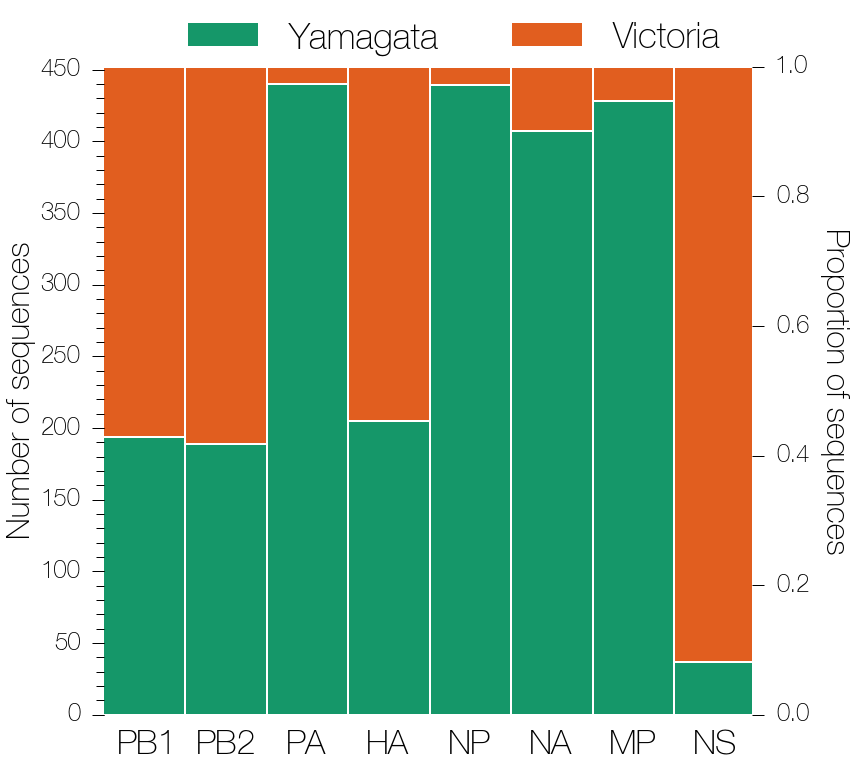
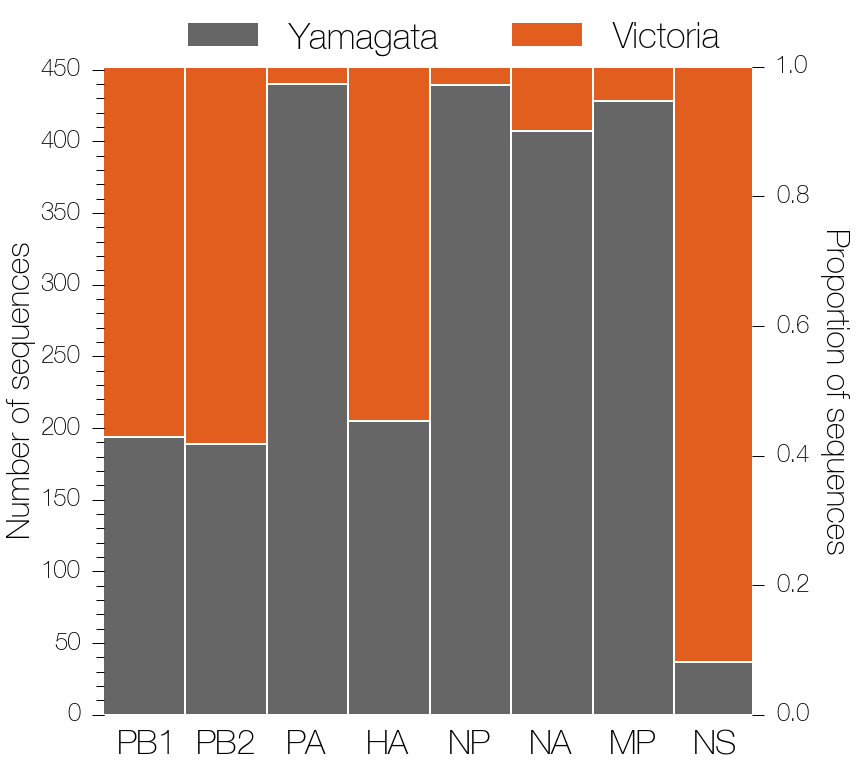
Lineage should now only refer to Vic/Yam.
Addressing #7.
Also adding alternative Vic/Yam colour scheme (orange/gray) to the
current one (orange/green). If everyone is happy with the new one I'll
update all 3 figures with the new one.

diff --git a/fluB.tex b/fluB.tex
@@ -200,8 +200,8 @@ The PB1, PB2 and HA segments maintain a common ancestor in $\sim$1983 up to the 
 \begin{figure}[h]
 	\centering		
 	\includegraphics[width=0.75\textwidth]{figures/InfB_tmrcaOT_lines.png}
-	\caption{\textbf{Oldest TMRCA of all surviving lineages over time.}
-PA, NP, NA, MP and NS segments of influenza B viruses show periodic losses of diversity, indicating lineage turn over.
+	\caption{\textbf{Oldest TMRCA of all surviving branches over time.}
+PA, NP, NA, MP and NS segments of influenza B viruses show periodic losses of diversity, indicating lineage turnover.
 PB1, PB2 and HA segments, on the other hand, maintain the diversity dating back to the initial split of Vic and Yam lineages.
 Each point is the TMRCA of all surviving lineages existing at each time slice through the tree and vertical lines indicating uncertainty are 95\% highest posterior densities (HPDs).}
 	\label{tmrcaOT}
@@ -263,7 +263,6 @@ Lineages that coassort in genomes are represented by 8 parallel lines, with line
 Inter-lineage reassortment events are indicated by lines entering a different genome.
 The angle of incoming lineages represents uncertainty in the timing of the event (mean date of the reassortant node and its parent node).
 Lineage extinction dates are not shown accurately.
-\tbc{Giving this a bit more vertical spread (increasing aspect ratio) would likely clarify things a bit.}}
 	\label{railroadPlot}
 \end{figure}
 
@@ -355,7 +354,7 @@ Evidence suggests that this is a result of prolonged lack of reassortment betwee
 We propose that this pattern of non-reassortment is due to the action of selection and not simply biased reassortment.
 Figures \ref{SPRdistances} and \ref{deltaTMRCA} show that despite all pairs of segments having the same reassortment frequency, suggesting there is no bias in segment packaging, PB1, PB2 and HA segments exhibit much lower reassortment `distances'.
 
-Reassortment `distances' represent the temporal separation of reassorting lineages and suggests that reassortments between PB1, PB2 and HA segments tend to combine lineages that have relatively recently been part of the same genome, i.e.\ that have shared a recent common virion.
+Reassortment `distances' represent the temporal separation of reassorting branches and suggests that reassortments between PB1, PB2 and HA segments tend to combine branches that have relatively recently been part of the same genome, i.e.\ that have shared a recent common virion.
 In addition, most strains with mixed-lineage PB1-PB2-HA complexes occured in the early years of the Vic--Yam split, when the two lineages were much more similar at the nucleotide and amino acid levels.
 The most recent influenza B viruses with B/Waikato/6/2005-like genome constellations possessed mixed-lineage PB1-PB2-HA complexes and circulated for only 5 months before presumably going extinct.
 We suggest that the preservation of two PB1-PB2-HA complex lineages is similar to genomic speciation islands, where small numbers of genes resist being homogenized through gene flow \cite{turner2005}.
@@ -430,7 +429,7 @@ In addition, we expect the relationship between Vic and Yam lineage PB1, PB2 and
 Given the existence of B/Waikato/6/2005-like viruses and the rarity of PB1-PB2 reassortants we expect that artificially produced PB1-PB2 reassortants would be much less fit than either PB1-HA or PB2-HA reassortants.
 We thus expect the following hierarchy of reassortant fitnesses (in order of decreasing fitness): PB1-PB2-HA, PB1-PB2/HA and PB1-HA/PB2 or PB2-HA/PB1, though there is some evidence to suggest that PB1-HA/PB2 might be more fit than PB2-HA/PB1 (see Supplementary information).
 The history of reassortments in influenza B viruses (Figure \ref{railroadPlot}) suggests that there are lineage-specific effects too, given the almost universal introgression of Yamagata lineage segments into Victoria PB1-PB2-HA background.
-However, our analyses do not indicate any obvious or dramatic differences between Vic and Yam PB1-PB2-HA segment complexes or segments associated with either of the two.
+However, our analyses do not indicate any obvious or dramatic differences between Vic and Yam PB1-PB2-HA segment complexes or segments associated with either of the two (see Supplementary information).
 
 However, we also see that epistatic effects might interfere with fitness measurements, if for example non-PB1-PB2-HA segments are also temporally mismatched.
 Ideally, the co-adaptation would be easier to understand by referring to the structures of PB1 and PB2 proteins, as the link between these would be intuitive.
@@ -441,7 +440,7 @@ We have identified amino acid sites which are linked between PB1, PB2 and HA pro
 %Patristic distance methods are far from new, although their use in conjunction with temporally calibrated phylogenies has been limited.
 For example, one study focused on patristic (or phylogenetic) distances to predict viral titer in \textit{Drosophila} species infected by viruses of other \textit{Drosophila} species \cite{longdon2011}.
 Another study has used the equivalent statistic to our $\Delta$TMRCA (called $\Delta$\textit{t}) to assess the temporal incongruence in phylogenies of 171 amphibian species induced by using different calibrations \cite{ruane2011}.
-%By using relatively straightforward measures of diversity, such as TMRCA of all surviving lineages over time and mean pairwise TMRCA between labels...
+%By using relatively straightforward measures of diversity, such as TMRCA of all surviving branches over time and mean pairwise TMRCA between labels...
 
 In this study we have investigated the patterns of reassortment amongst two influenza B virus segment lineages and found preserved diversity and consistent co-reassortment of 3 segments: PB1, PB2 and HA.
 Our findings reveal that Vic and Yam lineages of PB1, PB2 and HA segments co-associate amongst themselves with segments of their own lineage, thus resulting in an entirely Vic-lineage-derived PB1-PB2-HA segment complex and an entirely Yam-lineage-derived PB1-PB2-HA segment complex that co-circulate within the influenza B virus population, occasionally exchanging non-PB1-PB2-HA segments.
